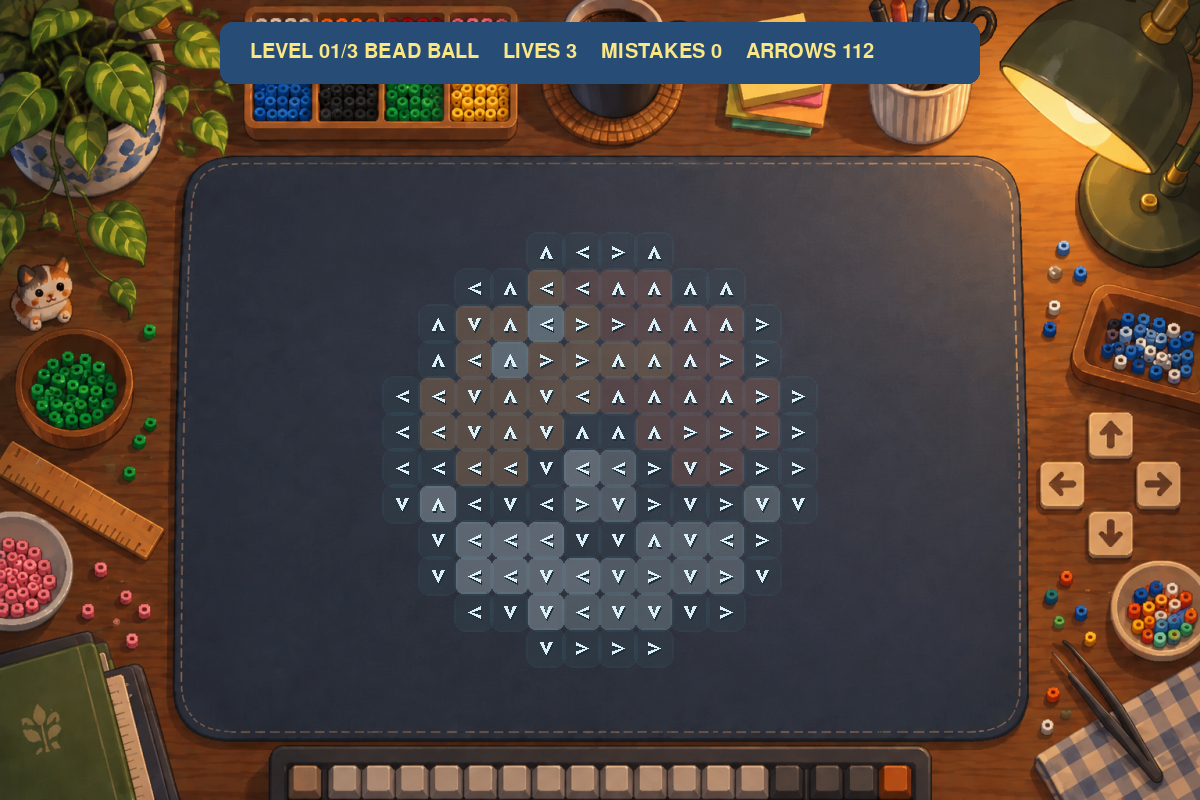
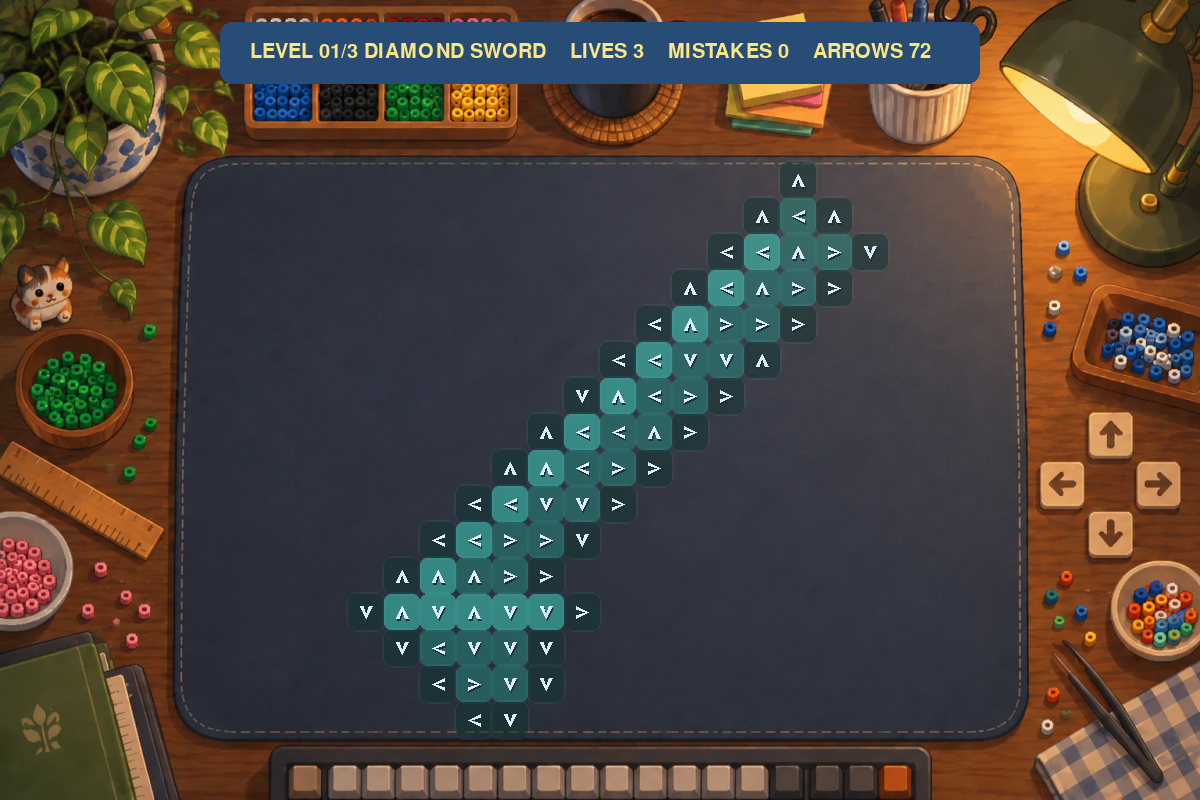
feat: refresh campaign with supplied bead patterns

Changed region(s): [[0.3083, 0.1875, 0.74, 0.9062], [0.3083, 0.0312, 0.7708, 0.0938]]

diff --git a/src/levels.py b/src/levels.py
@@ -93,6 +93,168 @@ def create_tree_board() -> Board:
     return Board(arrow_grid, color_grid)
 
 
+# The supplied Diamond Sword project is a 16×16 canvas.  Its three sampled
+# bead colours are used here in a fixed, recognizable sword silhouette.
+DIAMOND_SWORD_LAYOUT_SEED = 2026092001
+_DIAMOND_SWORD_PIXEL_COLORS = {
+    "K": "sword_outline",
+    "T": "sword_teal",
+    "L": "sword_highlight",
+}
+_DIAMOND_SWORD_PIXEL_ROWS = (
+    ".............K..",
+    "............KTK.",
+    "...........KLTTK",
+    "..........KLTTK.",
+    ".........KLTTK..",
+    "........KLTTK...",
+    ".......KLTTK....",
+    "......KLTTK.....",
+    ".....KLTTK......",
+    "....KLTTK.......",
+    "...KLTTK........",
+    "..KLTTK.........",
+    ".KLLLLLK........",
+    "..KTTTK.........",
+    "...KTTK.........",
+    "....KK..........",
+)
+DIAMOND_SWORD_COLOR_GRID = tuple(
+    tuple(None if pixel == "." else _DIAMOND_SWORD_PIXEL_COLORS[pixel] for pixel in row)
+    for row in _DIAMOND_SWORD_PIXEL_ROWS
+)
+DIAMOND_SWORD_ARROW_GRID = (
+    (None, None, None, None, None, None, None, None, None, None, None, None, None, "U", None, None),
+    (None, None, None, None, None, None, None, None, None, None, None, None, "U", "L", "U", None),
+    (None, None, None, None, None, None, None, None, None, None, None, "L", "L", "U", "R", "D"),
+    (None, None, None, None, None, None, None, None, None, None, "U", "L", "U", "R", "R", None),
+    (None, None, None, None, None, None, None, None, None, "L", "U", "R", "R", "R", None, None),
+    (None, None, None, None, None, None, None, None, "L", "L", "D", "D", "U", None, None, None),
+    (None, None, None, None, None, None, None, "D", "U", "L", "R", "R", None, None, None, None),
+    (None, None, None, None, None, None, "U", "L", "L", "U", "R", None, None, None, None, None),
+    (None, None, None, None, None, "U", "U", "L", "R", "R", None, None, None, None, None, None),
+    (None, None, None, None, "L", "L", "D", "D", "R", None, None, None, None, None, None, None),
+    (None, None, None, "L", "L", "R", "R", "D", None, None, None, None, None, None, None, None),
+    (None, None, "U", "U", "U", "R", "R", None, None, None, None, None, None, None, None, None),
+    (None, "D", "U", "D", "U", "D", "D", "R", None, None, None, None, None, None, None, None),
+    (None, None, "D", "L", "D", "D", "D", None, None, None, None, None, None, None, None, None),
+    (None, None, None, "L", "R", "D", "D", None, None, None, None, None, None, None, None, None),
+    (None, None, None, None, "L", "D", None, None, None, None, None, None, None, None, None, None),
+)
+DIAMOND_SWORD_SOLUTION = (
+    (15, 4), (12, 1), (3, 10), (6, 11), (5, 8), (7, 6), (15, 5), (12, 7),
+    (9, 4), (1, 12), (14, 6), (11, 6), (6, 10), (0, 13), (2, 15), (7, 7),
+    (7, 10), (10, 7), (8, 5), (10, 3), (13, 2), (1, 13), (3, 14), (4, 10),
+    (2, 11), (14, 5), (11, 2), (10, 6), (9, 7), (1, 14), (13, 3), (3, 13),
+    (2, 13), (13, 6), (2, 12), (2, 14), (14, 4), (12, 6), (11, 3), (14, 3),
+    (4, 13), (8, 6), (10, 4), (12, 3), (8, 7), (11, 4), (8, 9), (13, 5),
+    (12, 5), (3, 12), (10, 5), (3, 11), (4, 9), (12, 4), (5, 11), (4, 12),
+    (11, 5), (13, 4), (5, 12), (5, 9), (6, 7), (9, 5), (6, 8), (4, 11),
+    (5, 10), (12, 2), (6, 9), (9, 8), (9, 6), (7, 8), (7, 9), (8, 8),
+)
+
+
+def create_diamond_sword_board() -> Board:
+    """Return a fresh Board for the Diamond Sword pixel pattern."""
+    return Board(
+        [list(row) for row in DIAMOND_SWORD_ARROW_GRID],
+        [list(row) for row in DIAMOND_SWORD_COLOR_GRID],
+    )
+
+
+# The supplied Moon Hello Kitty bead project is downsampled at design time to
+# an 18×17 grid.  Normal play uses these frozen rows, never runtime sampling.
+HELLO_KITTY_LAYOUT_SEED = 2026092003
+_HELLO_KITTY_PIXEL_COLORS = {
+    "W": "kitty_white",
+    "Y": "moon_gold",
+    "K": "kitty_outline",
+    "D": "moon_shadow",
+    "G": "kitty_gray",
+    "R": "kitty_bow",
+    "P": "kitty_pink",
+}
+_HELLO_KITTY_PIXEL_ROWS = (
+    "........DDDD......",
+    "..........DYYD....",
+    "............YYYD..",
+    "....K.....K..KDY..",
+    "...KGWKKKKRKKWKYY.",
+    "...KWWWGGGKKKWKKYD",
+    "...KGWWWWWGGKRRKYY",
+    "...KWWWWWWWWWRRKYY",
+    "D..KWWWWWWWWWGGKYY",
+    "D.KGWWKWWWWWKWWKYY",
+    "DDKKWWKWWYWKKWKKYY",
+    "DYDKWWPWWWWWPWKKYY",
+    ".YYYKWWWWKKWWWKYYY",
+    ".DYYYDKWWKWWDYYYY.",
+    "..DYYYYKKYKYYYYY..",
+    "...DYYYYYYYYYYY...",
+    ".....YYYYYYYYY....",
+)
+HELLO_KITTY_COLOR_GRID = tuple(
+    tuple(None if pixel == "." else _HELLO_KITTY_PIXEL_COLORS[pixel] for pixel in row)
+    for row in _HELLO_KITTY_PIXEL_ROWS
+)
+HELLO_KITTY_ARROW_GRID = (
+    (None, None, None, None, None, None, None, None, "U", "L", "R", "R", None, None, None, None, None, None),
+    (None, None, None, None, None, None, None, None, None, None, "R", "U", "R", "R", None, None, None, None),
+    (None, None, None, None, None, None, None, None, None, None, None, None, "U", "U", "U", "R", None, None),
+    (None, None, None, None, "L", None, None, None, None, None, "U", None, None, "U", "U", "L", None, None),
+    (None, None, None, "L", "U", "U", "U", "L", "U", "R", "U", "U", "U", "U", "U", "R", "U", None),
+    (None, None, None, "U", "L", "U", "U", "L", "U", "U", "R", "U", "R", "R", "R", "U", "R", "R"),
+    (None, None, None, "L", "L", "U", "U", "L", "L", "L", "U", "R", "U", "U", "U", "D", "R", "R"),
+    (None, None, None, "L", "U", "U", "U", "L", "U", "U", "U", "L", "U", "R", "R", "R", "R", "D"),
+    ("L", None, None, "U", "D", "L", "U", "L", "U", "L", "U", "R", "U", "R", "R", "D", "R", "R"),
+    ("L", None, "U", "L", "L", "U", "U", "L", "L", "L", "U", "U", "U", "R", "R", "R", "R", "R"),
+    ("L", "D", "L", "L", "L", "D", "U", "L", "D", "D", "U", "L", "U", "R", "U", "R", "R", "D"),
+    ("D", "L", "U", "D", "L", "L", "L", "D", "D", "D", "R", "D", "D", "D", "R", "D", "D", "R"),
+    (None, "L", "L", "L", "D", "L", "D", "L", "L", "R", "R", "R", "D", "R", "R", "D", "R", "D"),
+    (None, "L", "D", "D", "L", "L", "D", "L", "L", "D", "R", "D", "D", "D", "D", "R", "D", None),
+    (None, None, "D", "L", "D", "L", "L", "L", "D", "R", "D", "D", "R", "R", "R", "D", None, None),
+    (None, None, None, "L", "D", "D", "D", "D", "D", "D", "D", "D", "D", "R", "R", None, None, None),
+    (None, None, None, None, None, "L", "D", "D", "L", "D", "R", "D", "R", "D", None, None, None, None),
+)
+HELLO_KITTY_SOLUTION = (
+    (8, 17), (2, 14), (12, 1), (13, 16), (4, 3), (16, 11), (3, 14), (1, 13),
+    (14, 15), (11, 17), (6, 3), (2, 13), (0, 8), (0, 11), (10, 0), (16, 13),
+    (3, 13), (9, 0), (16, 12), (15, 11), (15, 4), (7, 3), (2, 15), (9, 2),
+    (9, 17), (14, 2), (14, 3), (4, 6), (11, 0), (13, 1), (14, 14), (5, 6),
+    (1, 12), (11, 1), (1, 11), (12, 17), (10, 1), (5, 3), (10, 2), (1, 10),
+    (0, 9), (4, 8), (10, 17), (9, 16), (4, 5), (14, 4), (0, 10), (10, 3),
+    (7, 17), (16, 5), (3, 10), (6, 17), (9, 3), (14, 13), (13, 2), (6, 6),
+    (12, 2), (11, 2), (7, 16), (16, 6), (5, 17), (5, 5), (16, 9), (12, 3),
+    (3, 4), (16, 7), (6, 5), (16, 10), (15, 3), (2, 12), (13, 15), (12, 15),
+    (16, 8), (7, 6), (7, 15), (15, 9), (13, 3), (3, 15), (8, 6), (12, 16),
+    (13, 4), (11, 15), (12, 14), (4, 16), (8, 3), (10, 16), (11, 3), (6, 4),
+    (9, 6), (15, 12), (15, 14), (8, 0), (4, 4), (15, 5), (9, 15), (13, 5),
+    (10, 6), (11, 16), (11, 4), (10, 15), (14, 5), (4, 10), (15, 7), (5, 16),
+    (15, 6), (6, 16), (4, 13), (5, 4), (7, 4), (9, 4), (15, 10), (4, 15),
+    (7, 5), (15, 8), (6, 7), (9, 14), (5, 15), (15, 13), (14, 6), (13, 6),
+    (12, 4), (10, 4), (14, 12), (4, 12), (4, 7), (5, 14), (14, 10), (5, 8),
+    (8, 4), (8, 16), (4, 14), (11, 5), (5, 13), (4, 11), (13, 12), (14, 7),
+    (5, 11), (12, 12), (8, 5), (5, 12), (6, 8), (7, 8), (8, 15), (4, 9),
+    (12, 13), (7, 7), (12, 6), (8, 8), (14, 11), (5, 10), (6, 14), (13, 7),
+    (6, 10), (14, 8), (8, 14), (12, 5), (8, 7), (14, 9), (13, 11), (9, 5),
+    (6, 15), (7, 10), (12, 7), (9, 13), (8, 13), (5, 7), (6, 13), (10, 5),
+    (11, 14), (8, 10), (12, 8), (13, 14), (6, 9), (12, 11), (9, 10), (13, 9),
+    (11, 6), (12, 10), (5, 9), (13, 13), (9, 7), (13, 10), (11, 12), (6, 12),
+    (7, 9), (11, 7), (10, 7), (6, 11), (13, 8), (7, 12), (11, 8), (12, 9),
+    (7, 14), (10, 14), (10, 8), (8, 9), (7, 13), (8, 12), (7, 11), (11, 9),
+    (8, 11), (10, 10), (9, 8), (11, 13), (9, 11), (9, 9), (10, 9), (10, 13),
+    (9, 12), (11, 11), (11, 10), (10, 11), (10, 12),
+)
+
+
+def create_hello_kitty_board() -> Board:
+    """Return a fresh Board for the Moon Hello Kitty pixel pattern."""
+    return Board(
+        [list(row) for row in HELLO_KITTY_ARROW_GRID],
+        [list(row) for row in HELLO_KITTY_COLOR_GRID],
+    )
+
+
 FLOWER_LAYOUT_SEED = 2026091901
 FLOWER_COLOR_GRID = (
     (None, None, None, None, None, "petal_light", "petal_light", "petal_light", None, None, None, None, None),
@@ -203,5 +365,9 @@ def create_sun_board() -> Board:
     )
 
 
-LEVEL_NAMES = ("BEAD BALL", "FLOWER", "SUN")
-LEVEL_FACTORIES = (create_tree_board, create_flower_board, create_sun_board)
+LEVEL_NAMES = ("DIAMOND SWORD", "BEAD BALL", "MOON KITTY")
+LEVEL_FACTORIES = (
+    create_diamond_sword_board,
+    create_tree_board,
+    create_hello_kitty_board,
+)

diff --git a/tests/test_levels.py b/tests/test_levels.py
@@ -1,4 +1,12 @@
 from src.levels import (
+    DIAMOND_SWORD_ARROW_GRID,
+    DIAMOND_SWORD_COLOR_GRID,
+    DIAMOND_SWORD_LAYOUT_SEED,
+    DIAMOND_SWORD_SOLUTION,
+    HELLO_KITTY_ARROW_GRID,
+    HELLO_KITTY_COLOR_GRID,
+    HELLO_KITTY_LAYOUT_SEED,
+    HELLO_KITTY_SOLUTION,
     FLOWER_ARROW_GRID,
     FLOWER_COLOR_GRID,
     FLOWER_LAYOUT_SEED,
@@ -16,7 +24,9 @@ from src.levels import (
     TREE_LAYOUT_SEED,
     TREE_SOLUTION,
     create_sample_board,
+    create_diamond_sword_board,
     create_flower_board,
+    create_hello_kitty_board,
     create_sun_board,
     create_tree_board,
 )
@@ -115,6 +125,24 @@ def test_course_has_three_named_level_factories():
     assert len(LEVEL_FACTORIES) == 3
     assert len(LEVEL_NAMES) == 3
     assert all(factory().remaining_arrows() > 0 for factory in LEVEL_FACTORIES)
+
+
+def test_runtime_campaign_uses_sword_ball_and_hello_kitty_in_order():
+    assert LEVEL_NAMES == ("DIAMOND SWORD", "BEAD BALL", "MOON KITTY")
+    assert LEVEL_FACTORIES == (
+        create_diamond_sword_board,
+        create_tree_board,
+        create_hello_kitty_board,
+    )
+    assert len(DIAMOND_SWORD_COLOR_GRID) == len(DIAMOND_SWORD_ARROW_GRID) == 16
+    assert len(HELLO_KITTY_COLOR_GRID) == len(HELLO_KITTY_ARROW_GRID) == 17
+    assert len(HELLO_KITTY_COLOR_GRID[0]) == len(HELLO_KITTY_ARROW_GRID[0]) == 18
+    assert _play_frozen_solution(create_diamond_sword_board, DIAMOND_SWORD_SOLUTION)
+    assert _play_frozen_solution(create_hello_kitty_board, HELLO_KITTY_SOLUTION)
+    sword = generate_solvable_layout(DIAMOND_SWORD_COLOR_GRID, DIAMOND_SWORD_LAYOUT_SEED)
+    kitty = generate_solvable_layout(HELLO_KITTY_COLOR_GRID, HELLO_KITTY_LAYOUT_SEED)
+    assert sword.arrow_grid == DIAMOND_SWORD_ARROW_GRID
+    assert kitty.arrow_grid == HELLO_KITTY_ARROW_GRID
 
 
 def test_extra_levels_use_all_four_arrow_directions():

diff --git a/tests/test_animation.py b/tests/test_animation.py
@@ -11,12 +11,12 @@ def test_fly_out_animation_moves_right_and_finishes():
     assert animation.offset_cells == (0.0, 0.0)
     assert animation.color_state == "normal"
 
-    animation.update(0.15)
+    animation.update(0.25)
     assert 0.0 < animation.offset_cells[1] < 2.0
     assert animation.offset_cells[0] == 0.0
     assert animation.is_finished is False
 
-    animation.update(0.15)
+    animation.update(0.25)
     assert animation.is_finished is True
     assert animation.offset_cells == pytest.approx((0.0, 2.0))
 
@@ -32,7 +32,7 @@ def test_fly_out_animation_moves_right_and_finishes():
 )
 def test_fly_out_animation_moves_in_each_direction(direction, expected):
     animation = FlyOutAnimation(2, 3, direction, distance=2.0)
-    animation.update(0.30)
+    animation.update(0.50)
     assert animation.offset_cells == pytest.approx(expected)
 
 

diff --git a/src/ui.py b/src/ui.py
@@ -41,6 +41,16 @@ COLOR_MAP = {
     "ball_shine": (235, 251, 247),
     "ball_white": (255, 255, 255),
     "ball_gray": (188, 192, 188),
+    "sword_outline": (8, 40, 33),
+    "sword_teal": (30, 140, 122),
+    "sword_highlight": (60, 235, 206),
+    "kitty_white": (250, 250, 250),
+    "moon_gold": (228, 197, 84),
+    "kitty_outline": (8, 8, 8),
+    "moon_shadow": (209, 162, 56),
+    "kitty_gray": (219, 219, 219),
+    "kitty_bow": (196, 18, 23),
+    "kitty_pink": (226, 176, 176),
 }
 
 
@@ -271,7 +281,7 @@ class UI:
             colour_wash = pygame.Surface(rect.size, pygame.SRCALPHA)
             pygame.draw.rect(
                 colour_wash,
-                (*fill, 92 if is_hovered else 54),
+                (*fill, 78 if is_hovered else 110),
                 colour_wash.get_rect(),
                 border_radius=radius,
             )

diff --git a/tests/test_game.py b/tests/test_game.py
@@ -136,12 +136,12 @@ def test_start_enters_first_level_and_next_level_replaces_board():
     game.start()
     first_board = game.board
     assert game.state is GameState.PLAYING
-    assert game.level_name == "BEAD BALL"
+    assert game.level_name == "DIAMOND SWORD"
 
     game.state = GameState.CLEARED
     assert game.next_level() is True
     assert game.level_index == 1
-    assert game.level_name == "FLOWER"
+    assert game.level_name == "BEAD BALL"
     assert game.board is not first_board
     assert game.state is GameState.PLAYING
 

diff --git a/src/animation.py b/src/animation.py
@@ -66,7 +66,7 @@ class FlyOutAnimation(_TimedAnimation):
         row: int,
         col: int,
         direction: str,
-        duration: float = 0.30,
+        duration: float = 0.50,
         distance: float | None = None,
     ) -> None:
         super().__init__(duration)

diff --git a/docs/course-report.md b/docs/course-report.md
@@ -12,7 +12,7 @@
 
 ## 1. 项目展示
 
-项目启动后先显示带装饰箭头棋盘的主界面，点击唯一的 `START GAME` 按钮进入第一关。游戏窗口为 1200×800，中心区域是带隐藏像素颜色的箭头图案；第二、三关分别是 13×13 的大花朵和太阳。成功点击后，箭头沿方向飞出窗口；被阻挡时箭头移动到首个阻挡箭头、撞击变红并回退。
+项目启动后先显示带装饰箭头棋盘的主界面，点击唯一的 `START GAME` 按钮进入第一关。游戏窗口为 1200×800，中心区域是带隐藏像素颜色的箭头图案；三关依次为 16×16 钻石剑、16×16 精灵球和 18×17 月亮 Hello Kitty。成功点击后，箭头沿方向飞出窗口；被阻挡时箭头移动到首个阻挡箭头、撞击变红并回退。
 
 ![游戏运行截图](assets/runtime-gameplay.png)
 
@@ -25,7 +25,7 @@
 
 玩家每次点击一个箭头，程序检查它沿自身方向到棋盘边界之间的同行或同列位置。如果没有其他箭头，Board 立即把它标记为已清除，Game 创建飞出动画；如果存在其他箭头，Board 返回首个 blocker，Game 立即扣除一次失误机会，CollisionAnimation 负责撞击、变红和回退。
 
-项目包含 BEAD BALL、FLOWER、SUN 三个关卡。每个关卡由二维网格和颜色网格表示：`U/D/L/R` 是四种方向箭头，`.` 是已露出的像素位置，`None` 是图案外背景。箭头清除后，原位置显示颜色网格中的拼豆球、花瓣或阳光颜色。第一关由提交者提供的 `.px` 拼豆工程图案转换为 16×16 固定网格；花朵和太阳的箭头方向在开发阶段通过固定种子生成并验证后复制为常量，因此每次启动布局相同，不会因随机生成而出现不可解关卡。
+项目包含 DIAMOND SWORD、BEAD BALL、MOON KITTY 三个关卡。每个关卡由二维网格和颜色网格表示：`U/D/L/R` 是四种方向箭头，`.` 是已露出的像素位置，`None` 是图案外背景。箭头清除后，原位置显示颜色网格中的拼豆颜色。三关均根据提交者提供的 `.px` 拼豆工程图案制作：钻石剑和精灵球为 16×16 固定网格，月亮 Hello Kitty 在设计阶段等比例压缩为 18×17；三个方向布局都通过固定种子生成、验证后复制为常量，因此每次启动布局相同，不会因随机生成而出现不可解关卡。
 
 主要模块如下：
 
@@ -42,7 +42,7 @@
 
 逻辑判定和动画分离。点击成功时 Board 立即清除箭头，因此动画期间仍可以点击其他合法箭头；碰撞动画期间原箭头仍在 Board 中，只有动画结束时才把起点加入 `error_cells`，保证“撞击后变红，回退后保持红色”的时间顺序。
 
-大关卡的设计采用“先确定图案、再冻结布局”的方式：先用花朵或太阳的颜色掩码确定可见轮廓；生成工具在仍存在的箭头中随机选择一条无阻挡射线，把该坐标加入清除顺序并记录方向。重复到所有格子被选中后，得到的顺序天然可通关。工具使用固定种子保证可复现，最终的箭头网格和通关顺序都写入 `levels.py` 常量，避免把随机性带进游戏运行时。
+关卡的设计采用“先确定图案、再冻结布局”的方式：先用钻石剑、精灵球或 Hello Kitty 的颜色掩码确定可见轮廓；生成工具在仍存在的箭头中选择一条无阻挡射线，把该坐标加入清除顺序并记录方向。重复到所有格子被选中后，得到的顺序天然可通关。工具使用固定种子保证可复现，最终的箭头网格和通关顺序都写入 `levels.py` 常量，避免把随机性带进游戏运行时。
 
 ## 4. AIGC 使用过程
 
@@ -54,7 +54,7 @@
 | 工作桌背景美术 | 用户提供图片 + Codex | 提供一张包含拼豆盒、工作桌垫和手作工具的工作桌图片；Codex 将它接入开始和游戏界面，并把棋盘限制在桌垫内 | 人工确认图片中央留白适合标题、按钮和拼豆棋盘；保留代码绘制的标题和按钮 |
 | 路径检测、Game 分层和测试设计 | Codex | 设计 Board/Game/Animation/UI 分层，生成方向检测和状态转换测试 | 人工核对边界、非法点击、重复点击和生命值归零；增加独立关卡工厂测试 |
 | 飞出动画 Bug 调试 | ChatGPT/Codex | 根据试玩反馈追踪 Board 清除、Game 动画列表和 UI 绘制之间的数据流 | 发现飞出距离固定为 2 格导致箭头突然消失；先写失败回归测试，再改为越过 1200×800 窗口边界的方向距离 |
-| 关卡设计与可通关验证 | Codex | 根据提交者提供的 `.px` 拼豆图案及花朵、太阳颜色掩码生成固定方向布局和验证顺序 | 第一关转换为 16×16 拼豆球图案；花朵、太阳关卡固定种子结果并加入逐步清空测试 |
+| 关卡设计与可通关验证 | Codex | 根据提交者提供的钻石剑、精灵球、月亮 Hello Kitty `.px` 拼豆图案生成固定方向布局和验证顺序 | 将大尺寸 Hello Kitty 等比例压缩为 18×17；三关均固定种子结果并加入逐步清空测试 |
 
 ## 5. 测试结果
 
@@ -75,7 +75,7 @@ python -m compileall -q main.py src tests
 | T04 | 清除本关全部箭头 | 显示通关并进入下一关 | 三关工厂和 `next_level()` 测试通过 | 通过 |
 | T05 | 失误次数耗尽 | 显示失败并允许重开 | `FAILED` 状态拒绝普通点击，结果按钮重开，测试通过 | 通过 |
 | T06 | 游戏进行中重新开始 | 棋盘和失误次数恢复 | `restart()` 清空动画/错误标记并恢复关卡，测试通过 | 通过 |
-| T07 | 花朵、太阳固定布局 | 每次启动方向相同且存在通关顺序 | 固定种子复算、已冻结顺序逐步清空，测试通过 | 通过 |
+| T07 | 三个拼豆关卡的固定布局 | 每次启动方向相同且存在通关顺序 | 固定种子复算、已冻结顺序逐步清空，测试通过 | 通过 |
 
 ## 6. PSP 表格
 

diff --git a/README.md b/README.md
@@ -6,6 +6,7 @@
 
 ![开始界面](docs/assets/runtime-start.png)
 ![游戏界面](docs/assets/runtime-gameplay.png)
+![月亮 Hello Kitty 关卡](docs/assets/runtime-moon-kitty.png)
 ![通关结果界面](docs/assets/runtime-result.png)
 
 ## 功能
@@ -16,12 +17,12 @@
 - 成功箭头飞出窗口的动画；
 - 阻挡箭头撞击、变红、回退并保留错误标记；
 - 三次失误机会，HUD 显示生命值、失误次数和剩余箭头；
-- 3 个可以正常通关的关卡：16×16 BEAD BALL、13×13 FLOWER、13×13 SUN；
-- 花朵、太阳关卡使用固定的像素画颜色掩码和已冻结的方向布局；布局在设计阶段由固定种子工具生成并验证，运行时不会随机变化；
+- 3 个可以正常通关的关卡：16×16 DIAMOND SWORD、16×16 BEAD BALL、18×17 MOON KITTY；
+- 三个拼豆关卡都使用固定的像素画颜色掩码和已冻结的方向布局；布局在设计阶段由固定种子工具生成并验证，运行时不会随机变化；
 - 通关后进入下一关，失败后重开当前关，最终通关后可重新开始整局；
 - 无外部商业游戏代码、美术、音效或关卡资源。
 
-开始界面和游戏界面共用提交者提供的工作桌图片资源，文件位于 `assets/menu-background.png`；箭头棋盘会始终居中放在桌垫内。箭头使用 Pygame 绘制的居中回旋镖形方向标记，透明格可淡淡透出底层关卡颜色。第一关 BEAD BALL 根据提交者提供的 `.px` 拼豆工程图案转换为固定网格。其余界面与关卡图案均由 Pygame 基础图形绘制。
+开始界面和游戏界面共用提交者提供的工作桌图片资源，文件位于 `assets/menu-background.png`；箭头棋盘会始终居中放在桌垫内。箭头使用 Pygame 绘制的居中回旋镖形方向标记，透明格可淡淡透出底层关卡颜色。三关分别根据提交者提供的钻石剑、精灵球、月亮 Hello Kitty `.px` 拼豆工程图案制作成固定网格；Hello Kitty 图案在设计阶段等比例压缩为适合游戏桌垫的 18×17 网格。
 
 ## 开发环境
 
